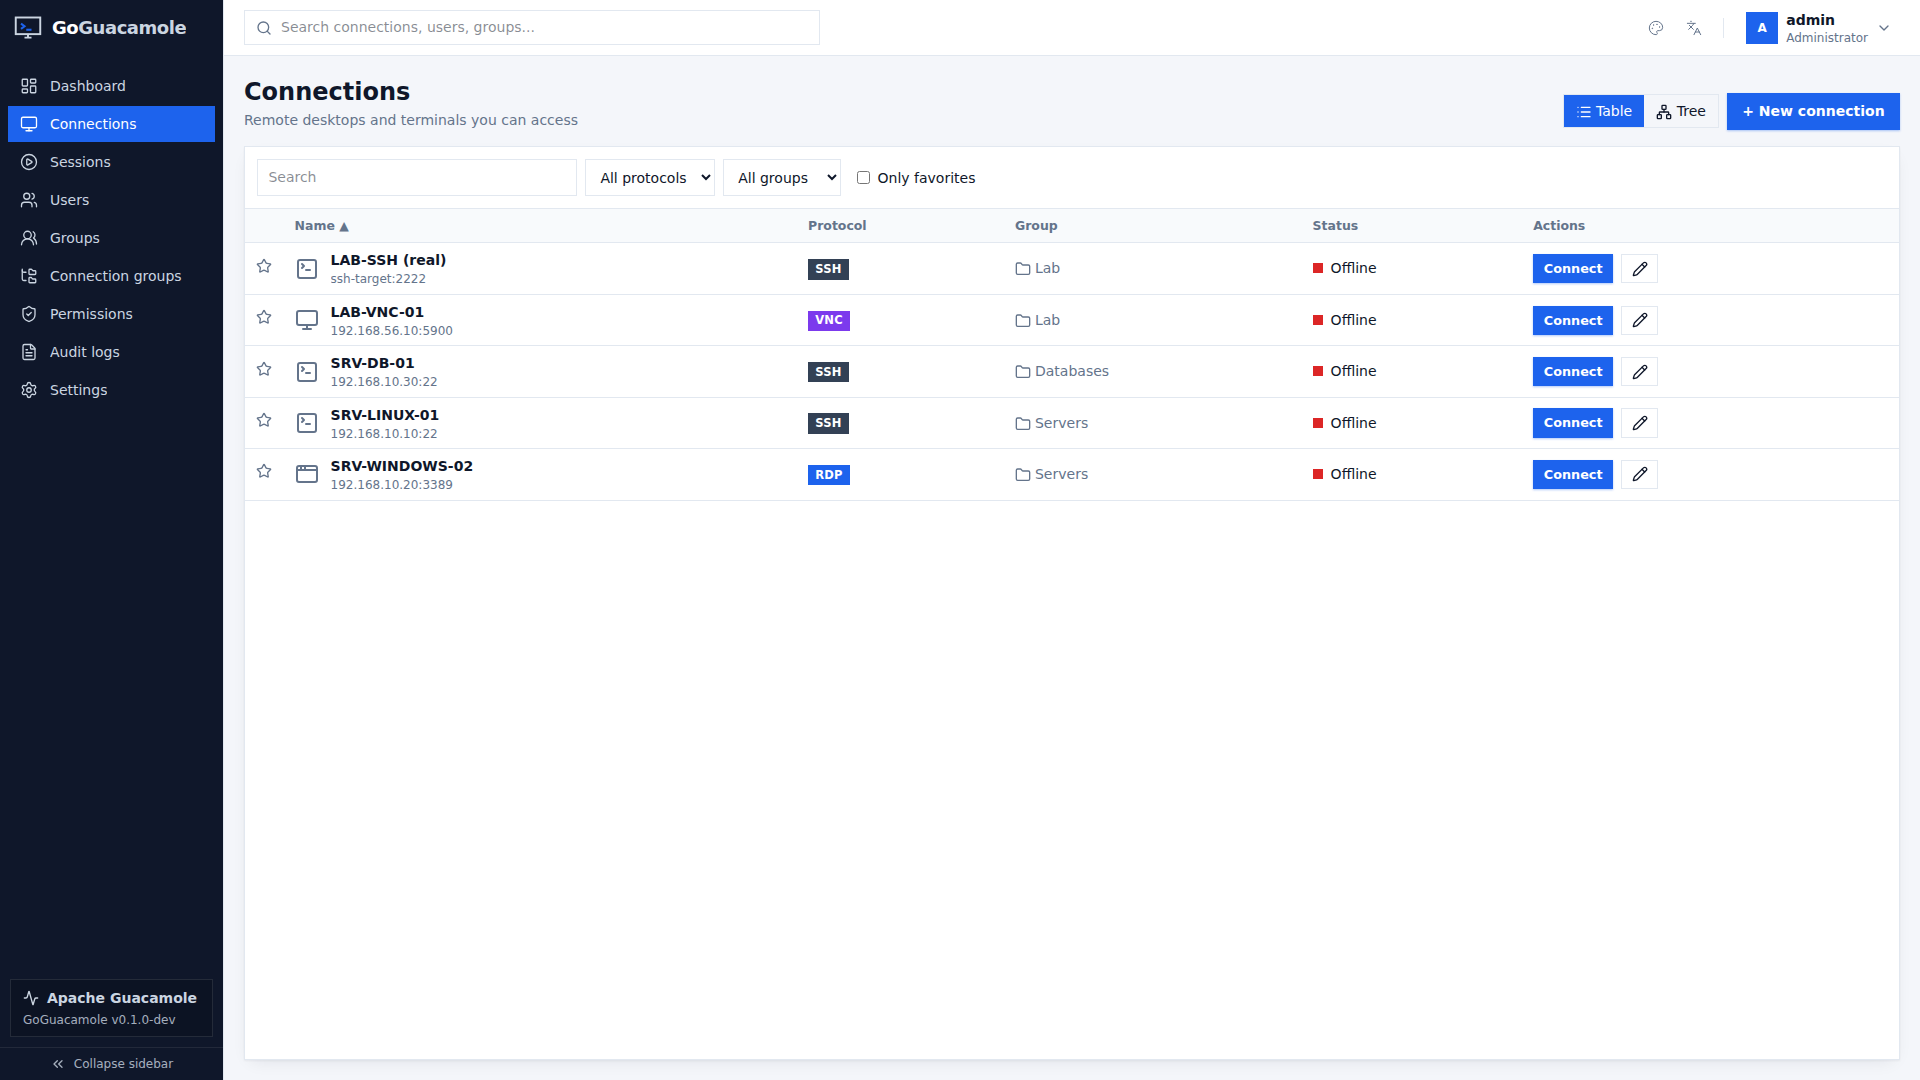
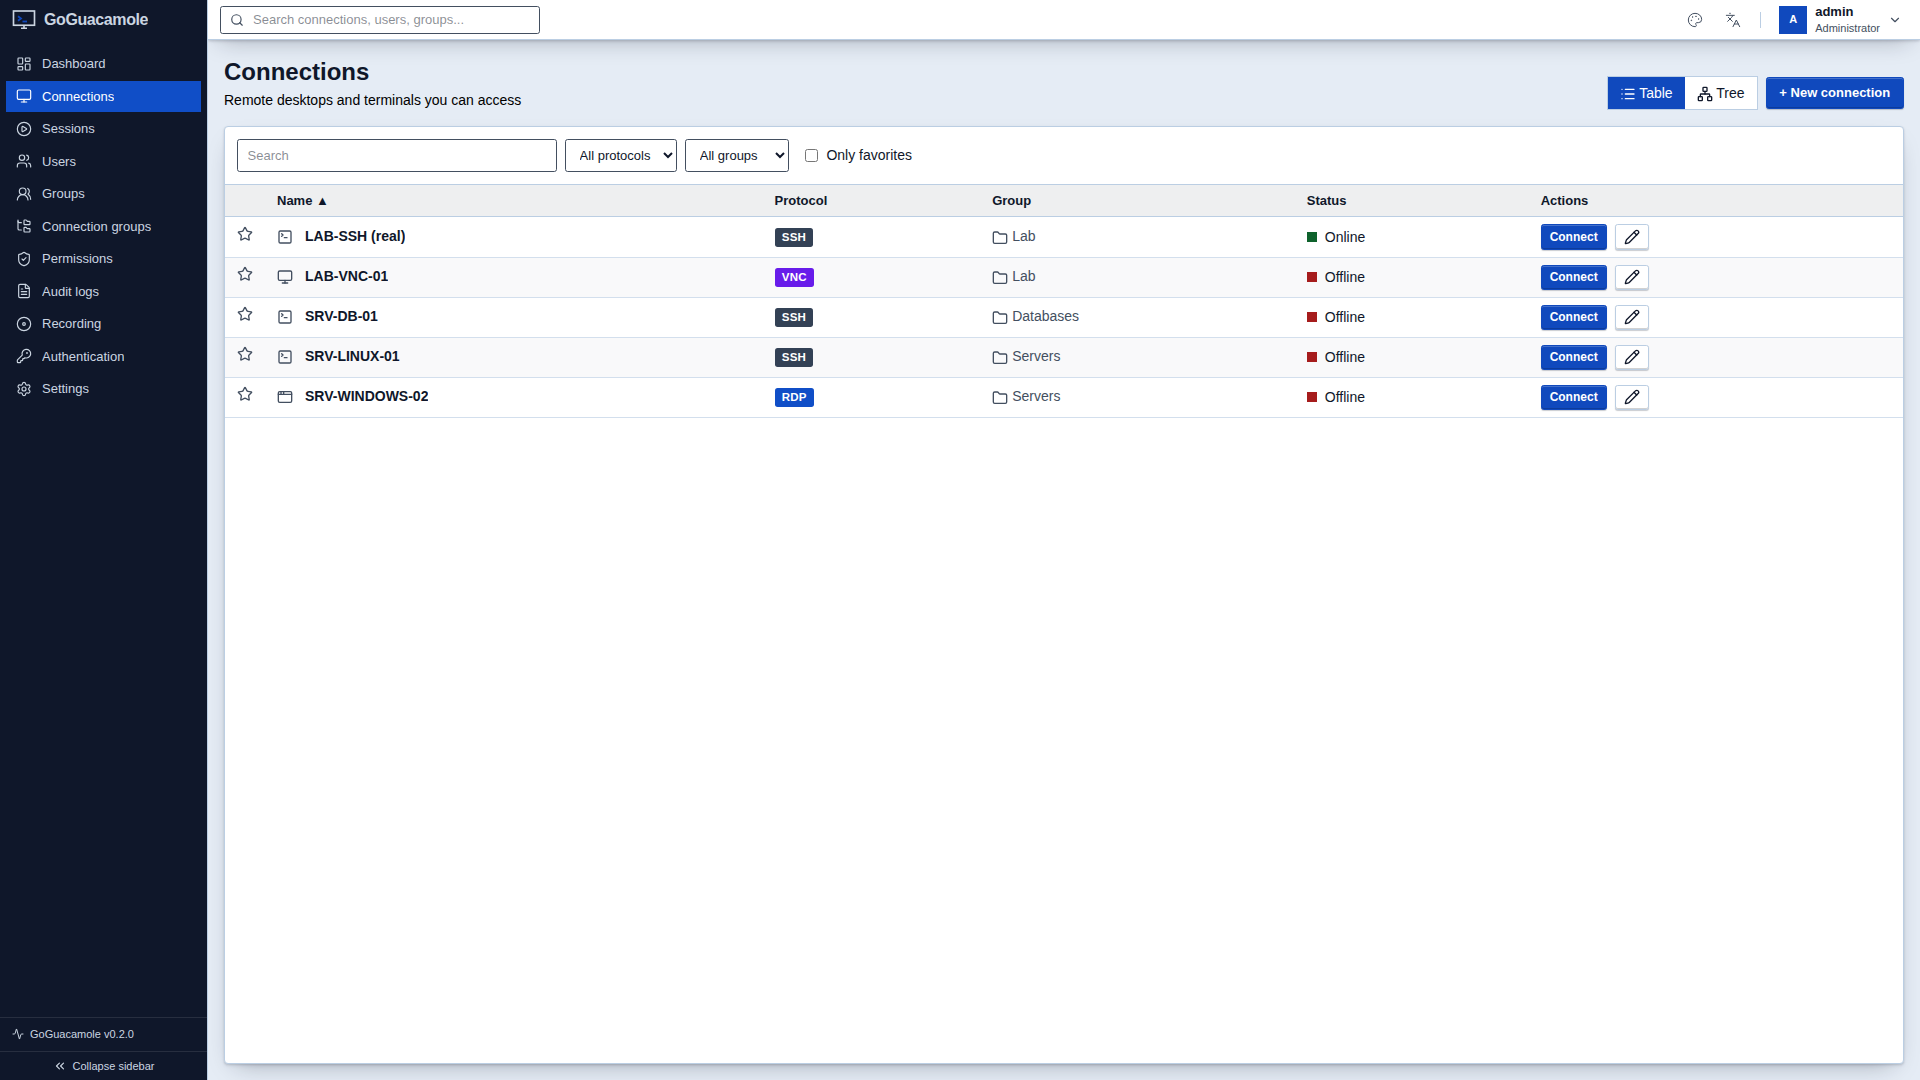
docs: refresh README screenshots, `make screenshots`, CHANGELOG 0.2.0
- the nine README screenshots retaken with the refined themes (demo data,
  real SSH session and recording, 1920x1080 / 1600x900)
- deploy/e2e.sh screenshots (make screenshots): clean lab stack, demo data
  through the API, pinned Playwright image, output in docs/screenshots
- CHANGELOG: Unreleased becomes 0.2.0

diff --git a/frontend/e2e/screenshots.spec.ts b/frontend/e2e/screenshots.spec.ts
@@ -1,0 +1,156 @@
+import { expect, test, type Page } from '@playwright/test'
+
+// README screenshots (docs/screenshots), taken on a clean lab stack: ./deploy/e2e.sh screenshots
+// Demo data is created through the API; LAB-SSH (real) is the lab SSH target, the others are offline examples.
+const ADMIN = process.env.GG_E2E_ADMIN_USER ?? 'admin'
+const PASS = process.env.GG_E2E_ADMIN_PASSWORD ?? 'adminadmin1'
+const NEW_PASS = 'Browser-E2E#2026'
+const OUT = '.shots/'
+
+test.describe.configure({ mode: 'serial' })
+test.skip(!process.env.GG_SHOTS, 'set GG_SHOTS=1 to take the README screenshots')
+test.use({ viewport: { width: 1920, height: 1080 } })
+
+let h: Record<string, string> = {}
+
+async function api(page: Page, method: string, url: string, data?: object) {
+  const r = await page.request.fetch('/api/v1' + url, { method, data, headers: h })
+  expect(r.ok(), `${method} ${url}: ${await r.text()}`).toBeTruthy()
+  return r.status() === 204 ? {} : r.json()
+}
+
+async function signIn(page: Page) {
+  await page.goto('/login')
+  const base = { 'X-Requested-With': 'goguacamole', Origin: new URL(page.url()).origin }
+  for (const body of [
+    { username: ADMIN, password: PASS },
+    { username: ADMIN, password: PASS, newPassword: NEW_PASS },
+    { username: ADMIN, password: NEW_PASS },
+  ]) {
+    const r = await page.request.post('/api/v1/auth/login', { data: body, headers: base })
+    if (r.ok()) {
+      h = { ...base, 'X-CSRF-Token': (await r.json()).csrfToken }
+      return
+    }
+  }
+  throw new Error('admin login failed')
+}
+
+async function prefs(page: Page, theme: string, locale: string) {
+  await api(page, 'PUT', '/me/preferences', { theme, locale, sidebarCollapsed: false, effects: 'off' })
+}
+
+async function shot(page: Page, path: string, name: string) {
+  await page.goto(path)
+  await page.waitForLoadState('networkidle')
+  await page.waitForTimeout(600)
+  await page.screenshot({ path: OUT + name })
+}
+
+test('README screenshots', async ({ page }) => {
+  test.setTimeout(300_000)
+  await signIn(page)
+
+  // demo data: folders, connections, users and groups
+  const folder: Record<string, string> = {}
+  for (const name of ['Lab', 'Databases', 'Servers'])
+    folder[name] = (await api(page, 'POST', '/connection-groups', { name })).id
+  const conn = (name: string, protocol: string, parentId: string, parameters: object) =>
+    api(page, 'POST', '/connections', { name, protocol, parentId, parameters })
+  const ssh = (await conn('LAB-SSH (real)', 'ssh', folder.Lab!, {
+    hostname: 'ssh-target', port: '2222', username: 'lab', password: 'labpass123',
+  })).id // prettier-ignore
+  await conn('LAB-VNC-01', 'vnc', folder.Lab!, { hostname: '192.168.56.10', port: '5900' })
+  const db = (await conn('SRV-DB-01', 'ssh', folder.Databases!, { hostname: '192.168.10.30', port: '22' })).id
+  const linux = (
+    await conn('SRV-LINUX-01', 'ssh', folder.Servers!, { hostname: '192.168.10.10', port: '22' })
+  ).id
+  const win = (
+    await conn('SRV-WINDOWS-02', 'rdp', folder.Servers!, { hostname: '192.168.10.20', port: '3389' })
+  ).id
+  const user = async (username: string, fullName: string) =>
+    (
+      await api(page, 'POST', '/users', {
+        username,
+        fullName,
+        password: 'Demo-Pass#2026',
+        mustChangePassword: false,
+      })
+    ).id
+  const [alice, bob, charlie] = [
+    await user('alice', 'Alice Martins'),
+    await user('bob.smith', 'Bob Smith'),
+    await user('charlie', 'Charlie Souza'),
+  ]
+  const group = async (name: string, members: string[], connections: string[]) => {
+    const id = (await api(page, 'POST', '/user-groups', { name })).id
+    await api(page, 'PUT', `/user-groups/${id}/members`, { members })
+    await api(page, 'PUT', '/permissions', { subject: `group:${id}`, connections })
+  }
+  await group('Developers', [alice, charlie], [ssh, linux])
+  await group('IT Ops', [bob], [ssh, db, linux, win])
+
+  // a real SSH session: the client with its menu, then history and recording
+  await prefs(page, 'light', 'en')
+  await page.goto(`/sessions/${ssh}/client`)
+  await expect(page.getByTestId('client-viewport').locator('canvas').first()).toBeVisible({ timeout: 45_000 })
+  await page.waitForTimeout(1500)
+  await page.getByTestId('client-viewport').click()
+  await page.keyboard.type('uname -a && ls /', { delay: 30 })
+  await page.keyboard.press('Enter')
+  await page.waitForTimeout(1500)
+  await page.getByTestId('open-menu').click()
+  await page.waitForTimeout(400)
+  await page.screenshot({ path: OUT + 'session-ssh.png' })
+  await page.getByTestId('disconnect').click()
+  await expect(page).toHaveURL(/connections/)
+
+  // reachability is probed in the background (every 60s): wait until every status is known
+  await expect
+    .poll(
+      async () =>
+        (await api(page, 'GET', '/dashboard')).connections.every(
+          (c: { status: string }) => c.status !== 'unknown',
+        ),
+      {
+        timeout: 90_000,
+        intervals: [3000],
+      },
+    )
+    .toBeTruthy()
+  await shot(page, '/connections', 'connections.png')
+  for (const [theme, locale, name] of [
+    ['light', 'pt-BR', 'dashboard-light.png'],
+    ['win98', 'en', 'dashboard-win98.png'],
+    ['dracula', 'en', 'dashboard-dracula.png'],
+    ['noc', 'en', 'dashboard-noc.png'],
+  ] as const) {
+    await prefs(page, theme, locale)
+    await shot(page, '/dashboard', name)
+  }
+
+  await prefs(page, 'light', 'en')
+  await page.setViewportSize({ width: 1600, height: 900 })
+  await shot(page, '/settings', 'settings.png')
+  await page.goto('/sessions')
+  await page.getByRole('tab', { name: /history/i }).click()
+  await page.getByTestId('play-recording').first().click()
+  await expect(page.getByTestId('recording-display').locator('canvas').first()).toBeAttached({
+    timeout: 20_000,
+  })
+  await page.waitForTimeout(3000)
+  await page.screenshot({ path: OUT + 'recording-player.png' })
+
+  // login in the Windows XP theme (signed out, theme from the browser)
+  await page.setViewportSize({ width: 1920, height: 1080 })
+  await api(page, 'POST', '/auth/logout')
+  await page.goto('/login')
+  await page.evaluate(() => {
+    localStorage.setItem('gg-theme', 'xp')
+    localStorage.setItem('gg-effects', 'off')
+    localStorage.setItem('gg-locale', 'en')
+  })
+  await page.reload()
+  await page.waitForTimeout(600)
+  await page.screenshot({ path: OUT + 'login-xp.png' })
+})

diff --git a/CHANGELOG.md b/CHANGELOG.md
@@ -4,6 +4,11 @@ All notable changes to this project are documented here. The version is the git 
 
 ## [Unreleased]
 
+## [0.2.0] — 2026-10-30
+
+**Sign-in methods and MFA, file transfer, per-connection recording policy with retention, premium AAA themes with
+SSH terminal color schemes, and a theme QA suite in CI.**
+
 ### ✨ New Features
 - feat: sign-in methods configured in **Administration → Authentication** (stored sealed in the database, secrets
   write-only, a *Test* button per method): TOTP second factor with QR enrollment and replay protection, LDAP /
@@ -45,6 +50,7 @@ All notable changes to this project are documented here. The version is the git 
 - security: changing a connection's protocol or guacd endpoint requires ADMINISTER; recording parameters can no longer
   be typed in connection parameters (legacy ones are converted to overrides)
 - build: Go 1.27.3; `make docker-binary` / `make docker-test` build and test without local Go or Node.js
+- docs: README screenshots refreshed; `make screenshots` retakes them on a clean lab stack with demo data
 
 ## [0.1.0] — 2026-10-29
 
